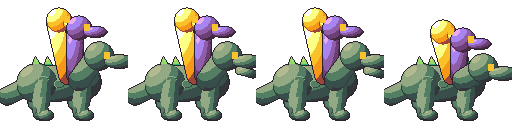
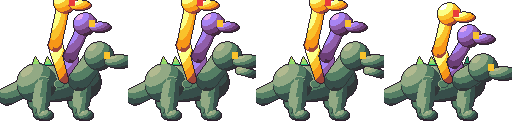
Arte: cabeças da Hidra e do Tricéfalo bem separadas
As cabeças extra ficavam umas em cima das outras com pescoços em cone. A
Hidra tem agora pescoços compridos e curvos em leque (cabeças à frente dos
pescoços; olho vermelho na cabeça amarela); o Tricéfalo tem as cabeças
juntas aos ombros, com orelhas. O robô de capturas ganhou o modo pov.

Claude-Session: https://claude.ai/code/session_01LBbUCe2Hjc7cUXday3cADo

diff --git a/ferramentas/arte/criaturas.py b/ferramentas/arte/criaturas.py
@@ -234,12 +234,34 @@ def quadrupede(cfg, p):
     if cfg.get('cabecas', 1) > 1:
         cores = cfg.get('cores_cabecas', [c] * 4)
         for i in range(cfg['cabecas'] - 1):
-            ex, ey = hx - 5 - i * 5, hy - 7 - i * 2 + (p.get('a', 0) % 2) * (1 if i else -1)
+            # as outras cabeças em leque, para cima e para trás, cada uma no seu pescoço comprido e curvo
+            balanco = (p.get('a', 0) % 2) * (1 if i else -1)
+            longo = cab == 'reptil'   # (hidra: pescoços compridos; um cão de 3 cabeças tem-nas juntas aos ombros)
+            if longo:
+                ex, ey = hx - 3.5 - i * 5, hy - 8 - i * 5.5 + balanco
+            else:
+                ex, ey = hx - 4.5 - i * 4.5, hy - 5.5 - i * 2.5 + balanco * 0.5
             cc = cores[(i + 1) % len(cores)]
-            t.cap(x1 - 2 - i * 2, yb - 2, ex - 1, ey + 1, 2.0, cc, 3.0 - i * 0.2)
-            t.el(ex, ey, hr * 0.85, hr * 0.8, cc, 3.1 - i * 0.2)
-            t.el(ex + focinho[0] * 0.8, ey + 1, focinho[2] * 0.8, focinho[3] * 0.8, cc, 3.15 - i * 0.2)
-            t.olho(ex + 1.2, ey - 1, p.get('cara', 'normal'), cfg.get('olho', '#f9c22b'))
+            zc = 3.0 - i * 0.2
+            bx, by = x1 - 2 - i * 2.5, yb - 2
+            if longo:
+                mx, my = (bx + ex) / 2 - 2.5, (by + ey) / 2 + 1.5
+                t.cap(bx, by, mx, my, 1.7, cc, zc)
+                t.cap(mx, my, ex - 0.5, ey + 1, 1.5, cc, zc + 0.01)
+            else:
+                t.cap(bx, by, ex - 1, ey + 1, 2.3, cc, zc)
+            zh = 3.6 + i * 0.05   # (as cabeças à frente de todos os pescoços)
+            if not longo and orelhas == 'pontiagudas':
+                t.pol([(ex - 2, ey - 1.5), (ex - 1, ey - 5.5), (ex + 0.8, ey - 2)], cc, zh - 0.01)
+                t.pol([(ex + 0.3, ey - 2), (ex + 1.8, ey - 5.5), (ex + 2.4, ey - 1.2)], cc, zh - 0.005)
+            t.el(ex, ey, hr * 0.8, hr * 0.75, cc, zh)
+            t.el(ex + focinho[0] * 0.75, ey + 0.8, focinho[2] * 0.75, focinho[3] * 0.75, cc, zh + 0.01)
+            ox, oy = t.S(ex + focinho[0] * 0.75 + focinho[2] * 0.75 - 0.6, ey + 0.2)
+            t.px([(ox, oy)], OUT)
+            olho = cfg.get('olho', '#f9c22b')
+            if cc in ('amarelo', 'laranja', 'ouro') and olho in ('#f9c22b', '#fbff86', '#f79617'):
+                olho = '#e83b3b'   # (olho amarelo numa cabeça amarela não se via)
+            t.olho(ex + 1.0, ey - 0.8, p.get('cara', 'normal'), olho)
     t.olho(hx + 1.2, hy - 1, p.get('cara', 'normal'), cfg.get('olho', '#f9c22b'))
     if cfg.get('asas'):
         up = p.get('asa', 0)
